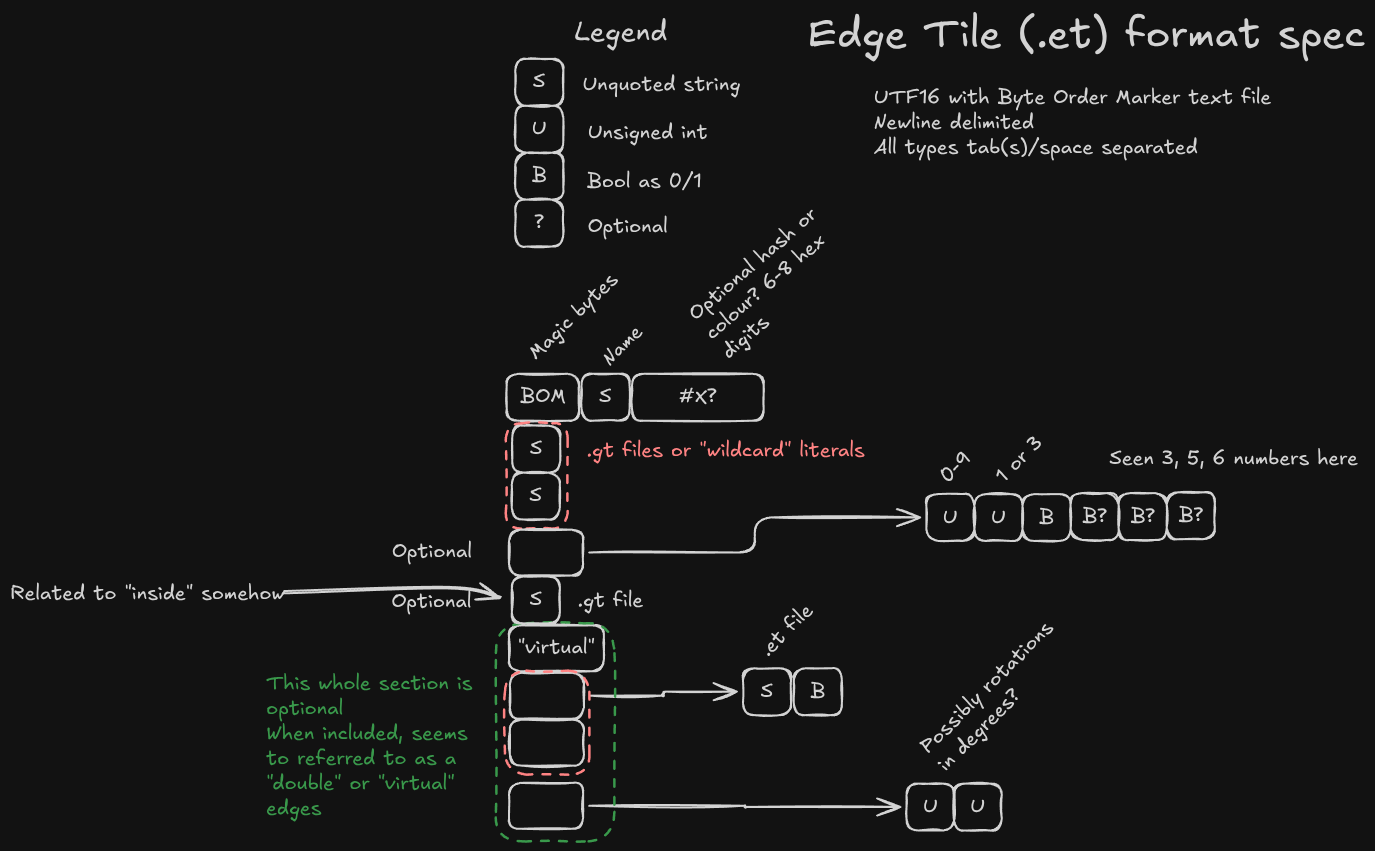
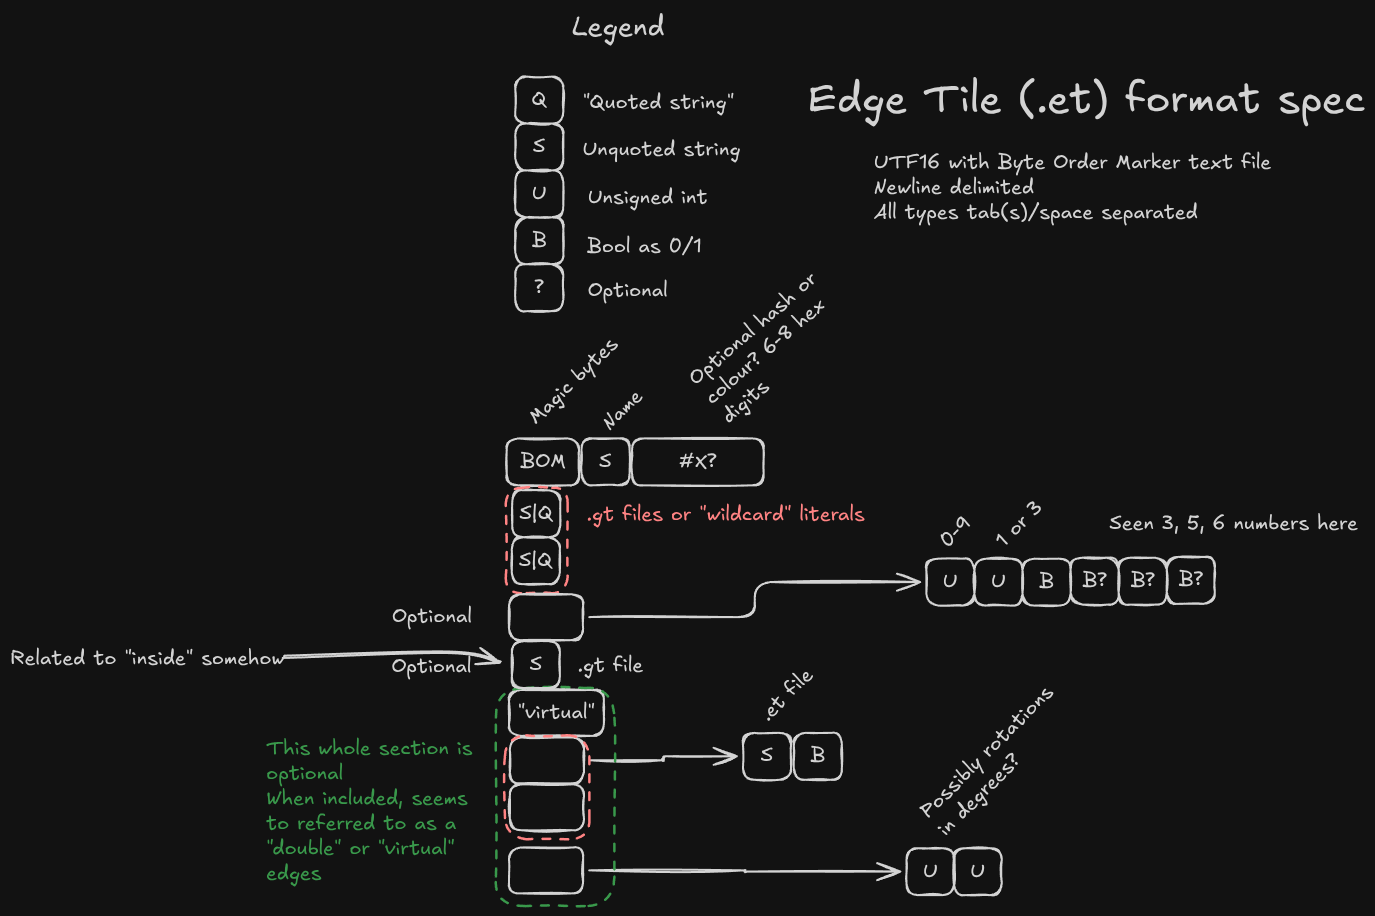
Winnow .et parser impl. More modular filename/str combinators.

diff --git a/src/file_parsers/et/winnow_parser.rs b/src/file_parsers/et/winnow_parser.rs
@@ -1,0 +1,114 @@
+use anyhow::{Result, anyhow};
+use winnow::{
+    Parser,
+    ascii::{dec_uint as U, space1},
+    combinator::{alt, opt, preceded as P, separated_pair},
+    stream::AsChar,
+    token::{literal, take_while},
+};
+
+use super::types::*;
+use crate::file_parsers::{
+    lift_winnow::{SliceParser, lift},
+    shared::winnow::{
+        TraceHelper, WinnowParser, filename, parse_bool, quoted, repeat_array, separated_array,
+        unquoted, unquoted_str,
+    },
+};
+
+fn name_hex<'a>() -> impl WinnowParser<&'a str, (String, Option<String>)> {
+    let hex_parser = P(literal("#"), take_while(1.., AsChar::is_hex_digit)).map(String::from);
+
+    (unquoted_str, opt(P(space1, hex_parser))).trace("name_hex")
+}
+
+fn gt_files<'a>() -> impl SliceParser<'a, &'a str, [GTFile; 2]> {
+    repeat_array(lift(
+        alt((
+            quoted('"'), //
+            unquoted(),
+        ))
+        .and_then(alt((
+            literal("wildcard").map(|_| GTFile::Wildcard),
+            filename("gt").map(GTFile::Path),
+        ))),
+    ))
+    .trace("gt_files")
+}
+
+fn num_line<'a>() -> impl WinnowParser<&'a str, NumLine> {
+    (
+        U,
+        P(space1, U),
+        P(space1, parse_bool),
+        opt(P(space1, parse_bool)),
+        opt(P(space1, parse_bool)),
+        opt(P(space1, parse_bool)),
+    )
+        .map(|(uint1, uint2, bool1, bool2, bool3, bool4)| NumLine {
+            uint1,
+            uint2,
+            bool1,
+            bool2,
+            bool3,
+            bool4,
+        })
+        .trace("num_line")
+}
+
+fn virtual_et_file<'a>() -> impl WinnowParser<&'a str, VirtualETFile> {
+    separated_pair(
+        unquoted().and_then(filename("et")), //
+        space1,
+        parse_bool,
+    )
+    .map(|(path, bool1)| VirtualETFile { path, bool1 })
+    .trace("virtual_et_file")
+}
+
+fn virtual_section<'a>() -> impl SliceParser<'a, &'a str, VirtualSection> {
+    (
+        lift(literal("virtual")),
+        repeat_array(lift(virtual_et_file())),
+        lift(separated_array(space1, U)),
+    )
+        .map(
+            |(_virtual_tag, virtual_et_files, virtual_rotations)| VirtualSection {
+                virtual_et_files,
+                virtual_rotations,
+            },
+        )
+        .trace("virtual_section")
+}
+
+pub fn parse_et_str(contents: &str) -> Result<ETFile> {
+    let lines = contents
+        .lines()
+        .map(|l| l.trim())
+        .filter(|l| !l.is_empty())
+        .collect::<Vec<_>>();
+
+    let mut parser = (
+        lift(name_hex()),
+        gt_files(),
+        opt(lift(num_line())),
+        opt(lift(unquoted().and_then(filename("gt")))),
+        opt(virtual_section()),
+    )
+        .map(
+            |((name, hex), gt_files, num_line, gt_file2, virtual_section)| ETFile {
+                name,
+                hex,
+                gt_files,
+                num_line,
+                virtual_section,
+                gt_file2,
+            },
+        );
+
+    let et_file = parser
+        .parse(&lines)
+        .map_err(|e| anyhow!("Failed to parse file: {e:?}"))?;
+
+    Ok(et_file)
+}

diff --git a/src/file_parsers/shared/winnow.rs b/src/file_parsers/shared/winnow.rs
@@ -3,10 +3,10 @@ use std::fmt::Display;
 use winnow::{
     Parser,
     ascii::dec_uint,
-    combinator::{alt, delimited, eof, preceded, separated, trace},
+    combinator::{alt, delimited, eof, preceded, repeat, separated, trace},
     error::{ContextError, ParserError},
-    stream::Stream,
-    token::{literal, rest, take_until, take_while},
+    stream::{AsChar, Stream},
+    token::{literal, rest, take_till, take_until, take_while},
 };
 
 pub trait WinnowParser<I, T> = Parser<I, T, ContextError>;
@@ -59,13 +59,17 @@ pub fn space_or_nl0<'a>(input: &mut &'a str) -> winnow::Result<&'a str> {
     .parse_next(input)
 }
 
-fn quoted<'a>(quote: char) -> impl WinnowParser<&'a str, &'a str> {
+pub fn quoted<'a>(quote: char) -> impl WinnowParser<&'a str, &'a str> {
     delimited(
         quote, //
         take_until(0.., quote),
         quote,
     ) //
     .trace(format!("quoted {quote:?}"))
+}
+
+pub fn unquoted<'a>() -> impl WinnowParser<&'a str, &'a str> {
+    take_till(1.., AsChar::is_space).trace("unquoted")
 }
 
 pub fn quoted_str(input: &mut &str) -> winnow::Result<String> {
@@ -83,31 +87,27 @@ pub fn single_quoted_str(input: &mut &str) -> winnow::Result<String> {
 }
 
 pub fn unquoted_str(input: &mut &str) -> winnow::Result<String> {
-    take_while(1.., |c: char| !c.is_whitespace())
+    unquoted()
         .map(String::from)
         .trace("unquoted_str")
         .parse_next(input)
 }
 
-/// Filename with the provided extension in a "quoted_string"
+/// Designed for use with Parser::and_then
 pub fn filename<'a>(extension: &str) -> impl WinnowParser<&'a str, String> {
     let ext = format!(".{extension}");
 
-    quoted('"')
-        .verify(move |s: &str| s.ends_with(&ext))
+    rest.verify(move |s: &str| s.ends_with(&ext))
         .map(String::from)
         .trace("filename")
 }
 
 /// Filename with the provided extension in a "quoted_string", or empty string
 pub fn optional_filename<'a>(extension: &str) -> impl WinnowParser<&'a str, Option<String>> {
-    let ext = format!(".{extension}");
-
     quoted('"')
         .and_then(alt((
-            eof.map(|_| None),
-            rest.verify(move |s: &str| s.ends_with(&ext))
-                .map(|s: &str| Some(s.to_string())),
+            eof.map(|_| None), //
+            filename(extension).map(Some),
         )))
         .trace("optional_filename")
 }
@@ -132,6 +132,21 @@ where
                 .unwrap_or_else(|_| unreachable!("Parser should take care of length"))
         })
         .trace("separated_array")
+}
+
+/// winnow::combinator::repeat but exact sized
+pub fn repeat_array<const N: usize, I, O>(
+    parser: impl WinnowParser<I, O>,
+) -> impl WinnowParser<I, [O; N]>
+where
+    I: Stream,
+{
+    repeat(N, parser)
+        .map(|x: Vec<_>| {
+            x.try_into()
+                .unwrap_or_else(|_| unreachable!("Parser should take care of length"))
+        })
+        .trace("repeat_array")
 }
 
 /// tail .trace()

diff --git a/src/file_parsers/mtd/parser.rs b/src/file_parsers/mtd/parser.rs
@@ -7,13 +7,16 @@ use winnow::{
 
 use super::{super::shared::winnow::space_or_nl1 as S, types::*};
 use crate::file_parsers::shared::winnow::{
-    TraceHelper, WinnowParser, filename, parse_bool, quoted_str, version_line,
+    TraceHelper, WinnowParser, filename, parse_bool, quoted, quoted_str, version_line,
 };
 
 fn entry(contents: &mut &str) -> winnow::Result<Entry> {
     (
-        filename("mat"), //
-        opt(P(S, filename("dlp"))),
+        quoted('"').and_then(filename("mat")),
+        opt(P(
+            S, //
+            quoted('"').and_then(filename("dlp")),
+        )),
     )
         .map(|(mat_file, dlp_file)| Entry { mat_file, dlp_file })
         .trace("entry")
@@ -51,7 +54,14 @@ fn group(contents: &mut &str) -> winnow::Result<Group> {
     )
     .parse_next(contents)?;
 
-    let extra_mat_files = repeat(num_b, P(S, filename("mat"))).parse_next(contents)?;
+    let extra_mat_files = repeat(
+        num_b,
+        P(
+            S, //
+            quoted('"').and_then(filename("mat")),
+        ),
+    )
+    .parse_next(contents)?;
 
     let group = Group {
         name,

diff --git a/src/file_parsers/ddt/winnow_parser.rs b/src/file_parsers/ddt/winnow_parser.rs
@@ -10,7 +10,8 @@ use super::types::*;
 use crate::file_parsers::{
     lift_winnow::{SliceParser, lift},
     shared::winnow::{
-        TraceHelper, WinnowParser, filename, quoted_str, safe_u32, unquoted_str, version_line,
+        TraceHelper, WinnowParser, filename, quoted, quoted_str, safe_u32, unquoted_str,
+        version_line,
     },
 };
 
@@ -42,7 +43,7 @@ fn group_header<'a>(
 fn object<'a>() -> impl WinnowParser<&'a str, Object> {
     (
         alt((literal("All").map(|_| Weight::All), F.map(Weight::Float))),
-        P(space1, filename("ao")),
+        P(space1, quoted('"').and_then(filename("ao"))),
         opt(P(space1, safe_u32)),
         opt(P(space1, literal("D").map(String::from))),
         opt(P(space1, F)),

diff --git a/src/file_parsers/et/nom_parser.rs b/src/file_parsers/et/nom_parser.rs
@@ -84,7 +84,10 @@ pub fn parse_et_str(contents: &str) -> Result<ETFile> {
             |((name, hex), gt_files, num_line, gt_file2, virtual_section)| ETFile {
                 name,
                 hex,
-                gt_files,
+                gt_files: gt_files.map(|p| match p.as_str() {
+                    "wildcard" => GTFile::Wildcard,
+                    _ => GTFile::Path(p),
+                }),
                 num_line,
                 virtual_section,
                 gt_file2,

diff --git a/src/file_parsers/et/types.rs b/src/file_parsers/et/types.rs
@@ -23,10 +23,16 @@ pub struct VirtualSection {
 }
 
 #[derive(Debug, Serialize)]
+pub enum GTFile {
+    Wildcard,
+    Path(String),
+}
+
+#[derive(Debug, Serialize)]
 pub struct ETFile {
     pub name: String,
     pub hex: Option<String>,
-    pub gt_files: [String; 2],
+    pub gt_files: [GTFile; 2],
     pub num_line: Option<NumLine>,
     pub gt_file2: Option<String>,
     pub virtual_section: Option<VirtualSection>,

diff --git a/src/file_parsers/et/mod.rs b/src/file_parsers/et/mod.rs
@@ -2,10 +2,11 @@ use anyhow::Result;
 
 use crate::file_parsers::{FileParser, shared::utf16_bom_to_string};
 
-pub mod parser;
+pub mod nom_parser;
 pub mod types;
-use parser::parse_et_str;
+pub mod winnow_parser;
 use types::*;
+use winnow_parser::parse_et_str;
 
 pub struct ETParser;
 

diff --git a/src/file_parsers/ecf/mod.rs b/src/file_parsers/ecf/mod.rs
@@ -2,7 +2,7 @@ use anyhow::Result;
 
 use crate::file_parsers::{FileParser, shared::utf16_bom_to_string};
 
-pub mod parser;
+pub mod nom_parser;
 pub mod types;
 pub mod winnow_parser;
 use types::*;
